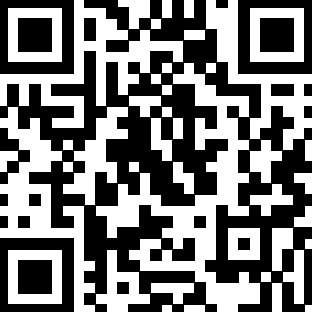
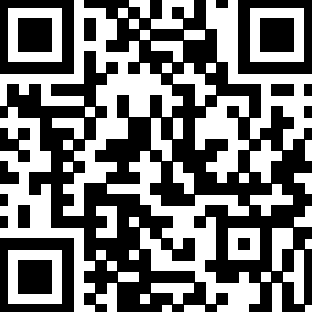
docs: update links

diff --git a/README.md b/README.md
@@ -55,7 +55,7 @@ May the world be a better and more interesting place, and may all of you and I b
       <img src="./assets/meituan-wechat-miniprogram.jpg" width="256px" style="display: block; margin-right: auto; margin-left: auto;" />
     </td>
     <td>
-      <a target="_blank" href="https://tb.j5k6.com/13iYW">短链</a>
+      <a target="_blank" href="https://tb.j5k6.com/16Ka5">短链</a>
     </td>
   </tr>
   <tr>
@@ -66,7 +66,7 @@ May the world be a better and more interesting place, and may all of you and I b
       <img src="./assets/jingdong-web.png" width="256px" style="display: block; margin-right: auto; margin-left: auto;" />
     </td>
     <td>
-      <a target="_blank" href="https://tb.j5k6.com/13iUS">短链</a>
+      <a target="_blank" href="https://tb.j5k6.com/16Kqy">短链</a>
     </td>
     <td></td>
   </tr>
